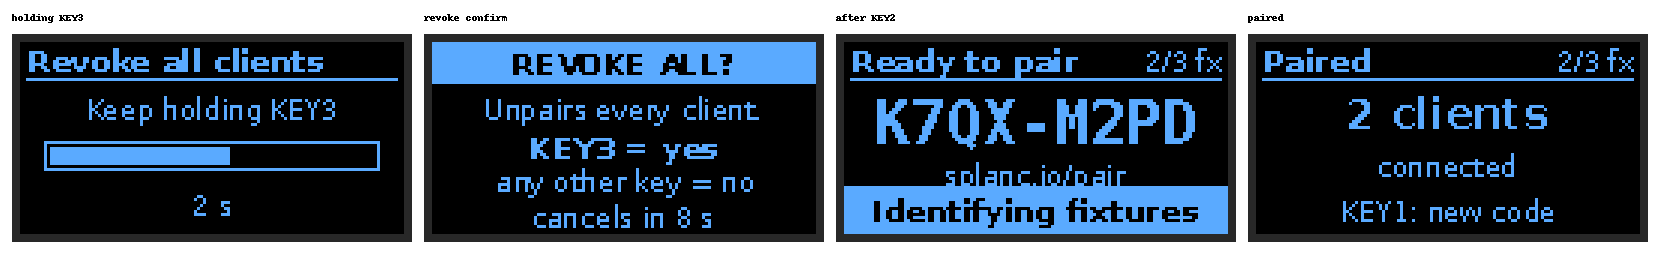
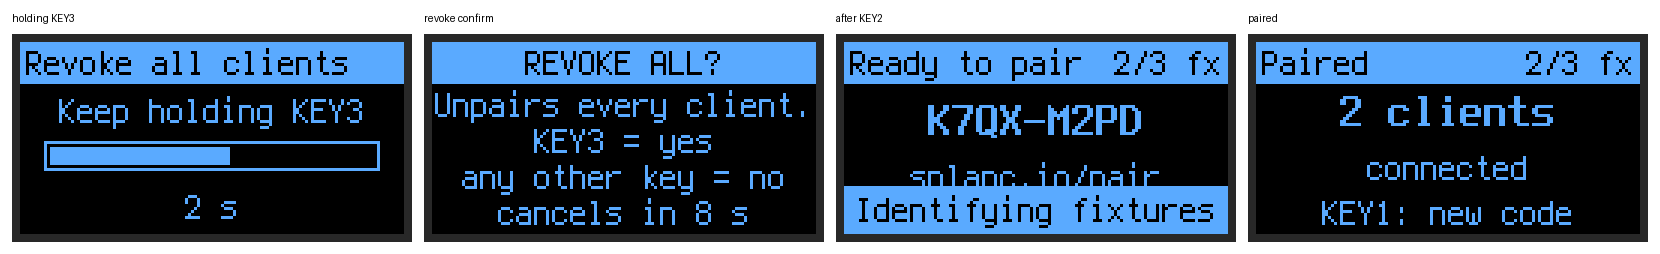
pi/bridge: default the OLED to terminus-inverse
Terminus 6x12 throughout, titles in the regular face on a lit title bar
(bold faces at 6 px wide eat the letter gap). Docs screenshots
re-rendered; the burn-in shift test now allows the edge column/row a
full-width bar loses.

diff --git a/pi/bridge/tests/test_render.py b/pi/bridge/tests/test_render.py
@@ -129,4 +129,7 @@ def test_oled_asleep_is_black_and_shift_moves():
     assert render_oled.render(s, View(page="home", asleep=True), now=NOW).histogram()[255] == 0
     a = render_oled.render(s, View(page="home"), now=NOW)
     b = render_oled.render(s, View(page="home", shift=(1, 1)), now=NOW)
-    assert a.histogram()[255] == b.histogram()[255] and a.tobytes() != b.tobytes()
+    # The shift moves the picture; a full-width lit title bar (inverse sets) loses at most
+    # the one column and row pushed off the edge.
+    assert abs(a.histogram()[255] - b.histogram()[255]) <= a.width + a.height
+    assert a.tobytes() != b.tobytes()

diff --git a/pi/bridge/display/splanc_display/fonts.py b/pi/bridge/display/splanc_display/fonts.py
@@ -34,7 +34,7 @@ from PIL import Image, ImageFont
 
 FONT_DIR = os.path.join(os.path.dirname(os.path.abspath(__file__)), "fonts")
 
-DEFAULT_SET = "dejavu"  # the one-line switch
+DEFAULT_SET = "terminus-inverse"  # the one-line switch
 
 ROLES = ("title", "small", "big", "code", "code_qr", "value", "boot")
 

diff --git a/pi/bridge/README.md b/pi/bridge/README.md
@@ -417,13 +417,13 @@ glyphs, and the layout adapts to them: header rule, row centring, value column a
 `test_font_sets.py` renders every page and state in every set and fails on text that leaves
 its box or touches other text.
 
-| Set                | Sizes                                                              | Licence                        |
-| ------------------ | ------------------------------------------------------------------ | ------------------------------ |
-| `dejavu` (default) | DejaVu Sans 9-10 px, 14 px status, Mono Bold code (TrueType)       | Bitstream Vera / public domain |
-| `spleen`           | 6x12 (titles double-struck), 8x16 status, 12x24 code, 5x8 fallback | BSD-2-Clause                   |
-| `terminus`         | 6x12 (titles double-struck), 8x16 bold status, 12x24 bold code     | OFL-1.1                        |
-| `misc-fixed`       | X11 6x12, 6x13B titles, 9x15B status, 10x20 code                   | public domain                  |
-| `cozette`          | 6x13 (titles double-struck), code at 2x                            | MIT                            |
+| Set          | Sizes                                                              | Licence                        |
+| ------------ | ------------------------------------------------------------------ | ------------------------------ |
+| `dejavu`     | DejaVu Sans 9-10 px, 14 px status, Mono Bold code (TrueType)       | Bitstream Vera / public domain |
+| `spleen`     | 6x12 (titles double-struck), 8x16 status, 12x24 code, 5x8 fallback | BSD-2-Clause                   |
+| `terminus`   | 6x12 (titles double-struck), 8x16 bold status, 12x24 bold code     | OFL-1.1                        |
+| `misc-fixed` | X11 6x12, 6x13B titles, 9x15B status, 10x20 code                   | public domain                  |
+| `cozette`    | 6x13 (titles double-struck), code at 2x                            | MIT                            |
 
 Title variants of the two favourites (the rest of each set unchanged). A set's `title_style` is
 `bold` (a bold face, real or double-struck), `tracked` (double-struck with extra spacing) or
@@ -433,7 +433,7 @@ Title variants of the two favourites (the rest of each set unchanged). A set's `
 | -------------------- | ----------------------------------------------------------------- |
 | `terminus-tracked`   | 6x12 double-struck with +1 px tracking, so letters keep their gap |
 | `terminus-14b`       | the real bold 8x14 (header 2 px taller; long titles ellipsize)    |
-| `terminus-inverse`   | regular 6x12 on a lit bar                                         |
+| `terminus-inverse`   | regular 6x12 on a lit bar (**the default**)                       |
 | `misc-fixed-7x13b`   | the real bold 7x13B                                               |
 | `misc-fixed-inverse` | regular 6x12 on a lit bar                                         |
 
